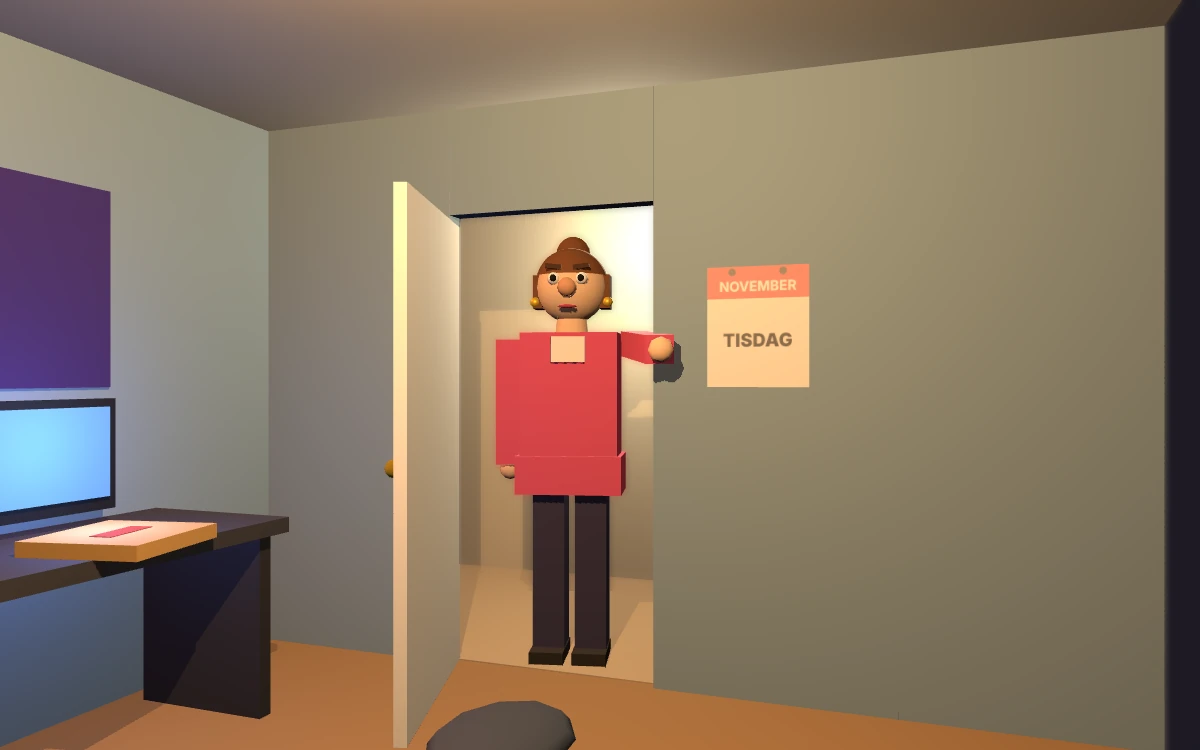
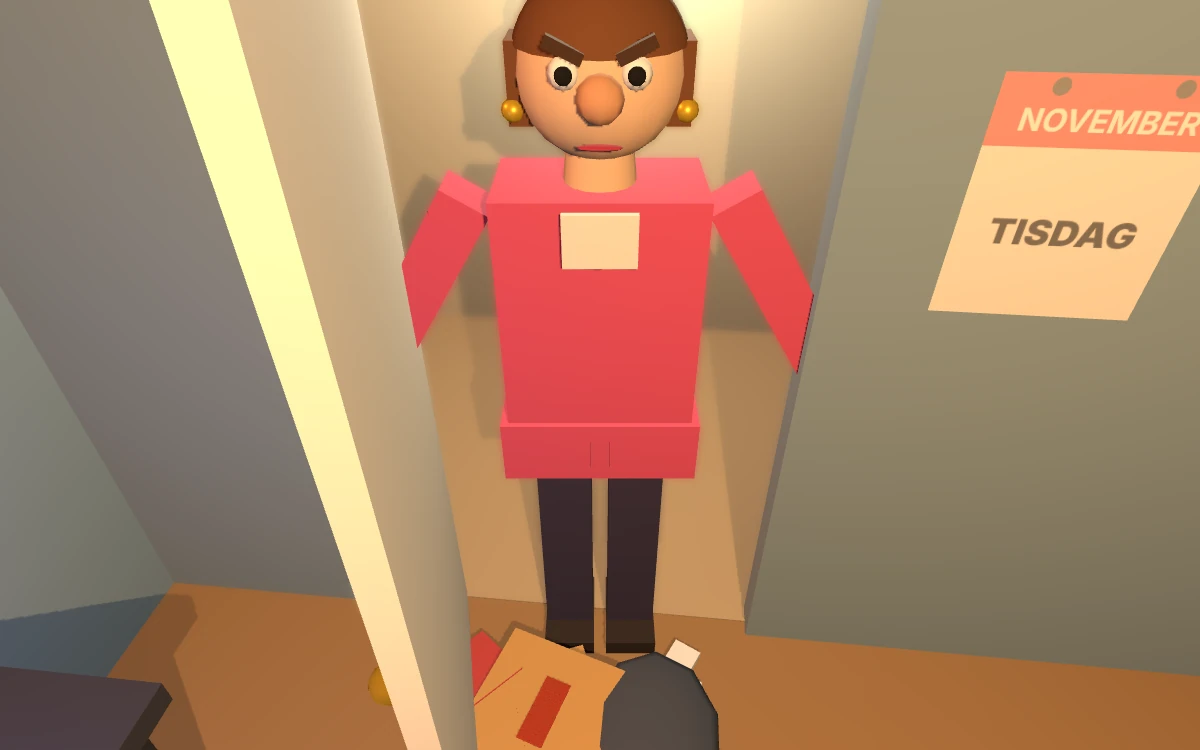
Soptippsvägen AI2: putsrunda på introbilderna
Bild 1 riktigt stökig (pizzahögar, kläder på stolen, chips och burkar på
skrivbordet, tallrik under sängen, fyra affischer), lägre kamera. Bild 2–4
närbild på mamma med ansiktet ca 3 gånger större: neutral → ögonbryn ner
och händerna i sidan → rött ansikte och pekfinger, och stöket framför
dörren ökar. Bild 5 kalendern skarp i förgrunden och mamma hel och suddig
i dörren. Bild 7 hela huvudet, armen pekar mot dörren. Bild 9 en riktig
ryggsäck med remmar, lock och spänne, framficka, strumpa och sladd. Bild 10
från vägen med skjulet och tippen. Bild 11 tätt stilleben med slang. Bild
12 före grått utan tak med skräp, efter i skymning med plåttak, fönster,
lampa, matta, krukor och gamingbordet.

Claude-Session: https://claude.ai/code/session_014156cp9JxbGsW1A8ZsF5gD

diff --git a/spel/printa-hem/spel.js b/spel/printa-hem/spel.js
@@ -1000,6 +1000,7 @@ const skjulHinder = [];
   for (const [x, z] of [[-B / 2, -D / 2], [B / 2, -D / 2], [-B / 2, D / 2], [B / 2, D / 2]]) { const st = box(0.12, H + 0.1, 0.12, tra[3]); st.position.set(x, (H + 0.1) / 2, z); talt.add(st); }
   // sjunket tak av plankor med ett hål, plus en rostig plåtlapp
   const tak = new THREE.Group(); tak.position.set(0, H + 0.05, 0); tak.rotation.x = -0.1; tak.rotation.z = 0.04; talt.add(tak);
+  talt.userData.plankTak = tak;   // punkt AI2: introbilden 'före' visar skjulet utan tak
   for (let z = -D / 2 - 0.25; z < D / 2 + 0.25; z += PL) {
     if (z > -0.4 && z < 0.0) continue;   // hålet i taket
     const t = box(B + 0.4, 0.05, PL - 0.02, tra[Math.floor(r() * tra.length)]); t.position.set(0, (r() - 0.5) * 0.04, z); t.rotation.z = (r() - 0.5) * 0.05; tak.add(t);
@@ -9547,7 +9548,7 @@ function fragaFlyttaOm(tvinga = false) {
 }
 // ---------- Punkt AI: introbilderna – stillbilder renderade med spelets egen Three.js ----------
 // Rummet byggs som en egen liten scen (kvällsljus inne). Gården, linje 1 och skjulet tas ur spelvärlden (dagsljus).
-// Testkrok: __printahem.introBild(n, bredd, höjd) → data-url. Verktyget test/ai.mjs sparar dem som intro/NN.webp.
+// Testkrok: __printahem.introBild(n, bredd, höjd) → data-url. Verktyget verktyg/ai.mjs sparar dem som intro/NN.webp.
 function introFigur(vem) {
   const g = new THREE.Group(), hud = mat(vem === 'mamma' ? 0xf2c9a5 : 0xf0c6a2);
   const kropp = mat(vem === 'mamma' ? 0xe0567a : 0x2d6cdf), byx = mat(vem === 'mamma' ? 0x3a3550 : 0x2b3442), sko = mat(0x2a2320);
@@ -9565,10 +9566,13 @@ function introFigur(vem) {
     for (const x of [-0.175, 0.175]) huvud.add(at(new THREE.Mesh(new THREE.SphereGeometry(0.025, 8, 6), mat(0xffd23b, { metalness: 0.5, roughness: 0.3 })), x, -0.07, 0.02));   // örhängen
     for (const x of [-0.16, 0.16]) huvud.add(at(box(0.05, 0.16, 0.12, har), x, -0.02, -0.03));
   }
-  if (vem !== 'mamma') { const luva = new THREE.Mesh(new THREE.SphereGeometry(0.215, 16, 12, Math.PI - 0.5, Math.PI + 1.0, 0, Math.PI * 0.72), mat(0x2d6cdf, { side: THREE.DoubleSide })); luva.position.set(0, -0.01, -0.03); huvud.add(luva); }   // luvan runt ansiktet, som på porträttet
+  if (vem !== 'mamma') { const luva = new THREE.Mesh(new THREE.SphereGeometry(0.215, 16, 12, Math.PI - 0.5, Math.PI + 1.0, 0, Math.PI * 0.72), mat(0x2d6cdf, { side: THREE.DoubleSide })); luva.position.set(0, -0.01, -0.03); huvud.add(luva); }
+  const fore = huvud.children.length;
   ansikte(huvud, 0, { bryn: vem === 'mamma' ? 0.12 : -0.05, brynFarg: 0x4a2e1a, nasa: 0xd9a07a, munFarg: vem === 'mamma' ? 0xb83a52 : 0x5a2a20 });
+  const delar = huvud.children.slice(fore), bryn = delar.filter((o) => o.geometry?.parameters?.width === 0.075), mun = delar[delar.length - 1];
   const arm = (x) => { const a = new THREE.Group(); a.position.set(x, 1.5, 0); a.add(at(box(0.12, 0.6, 0.12, kropp), 0, -0.28, 0)); a.add(at(new THREE.Mesh(new THREE.SphereGeometry(0.055, 8, 6), hud), 0, -0.6, 0)); g.add(a); return a; };
-  g.userData = { vanster: arm(-0.3), hoger: arm(0.3), ben, huvud };
+  const hoger = arm(0.3), finger = at(box(0.03, 0.11, 0.03, hud), 0, -0.7, 0); hoger.add(finger);
+  g.userData = { vanster: arm(-0.3), hoger, finger, ben, huvud, bryn, mun, hud, hudFarg: hud.color.getHex() };
   g.traverse((o) => { if (o.isMesh) { o.castShadow = true; o.receiveShadow = true; } });
   return g;
 }
@@ -9580,10 +9584,19 @@ function kalenderTex(dag) {
   g.fillStyle = '#333'; g.font = '900 46px system-ui'; g.fillText(dag, 128, 200);
   return new THREE.CanvasTexture(c);
 }
+// en affisch: färgade fält och lite text, ritad på en canvas
+function affischTex(farg, rubrik, figur) {
+  const c = document.createElement('canvas'); c.width = 192; c.height = 256; const g = c.getContext('2d');
+  g.fillStyle = farg; g.fillRect(0, 0, 192, 256); g.fillStyle = 'rgba(255,255,255,.18)'; for (let y = 0; y < 256; y += 8) g.fillRect(0, y, 192, 2);
+  g.font = '110px system-ui'; g.textAlign = 'center'; g.fillText(figur, 96, 150);
+  g.fillStyle = '#fff'; g.font = '900 30px system-ui'; g.fillText(rubrik, 96, 226);
+  return new THREE.CanvasTexture(c);
+}
 let introRum = null;
 function byggIntroRum() {
   const sc = new THREE.Scene(); sc.background = new THREE.Color(0x1d1a24);
   const R = { vagg: mat(0x8fa7b8), golv: mat(0x9c7a52), tak: mat(0xe8e2d6) };
+  const r = (() => { let x = 7; return () => { x = (x * 16807) % 2147483647; return x / 2147483647; }; })();   // samma stök varje gång
   sc.add(at(box(5, 0.05, 4, R.golv), 0, -0.025, 0));
   sc.add(at(box(5, 0.05, 4, R.tak), 0, 2.62, 0));
   sc.add(at(box(5, 2.6, 0.1, R.vagg), 0, 1.3, -2)); sc.add(at(box(0.1, 2.6, 4, R.vagg), -2.5, 1.3, 0));
@@ -9596,27 +9609,44 @@ function byggIntroRum() {
   const dorr = new THREE.Group(); dorr.position.set(2.5, 0, -0.9); dorr.add(at(box(0.05, 2.05, 1.0, mat(0xf2ede2)), 0, 1.025, 0.5)); dorr.add(at(new THREE.Mesh(new THREE.SphereGeometry(0.035, 8, 6), mat(0xc9a227, { metalness: 0.7 })), -0.05, 1.0, 0.9)); sc.add(dorr);
   // fönster i bakväggen: kvällshimmel
   sc.add(at(box(1.2, 0.9, 0.02, mat(0xff9a55, { emissive: 0xff7a35, emissiveIntensity: 0.9 })), -0.6, 1.55, -1.94)); sc.add(at(box(1.3, 0.06, 0.1, mat(0xf2ede2)), -0.6, 1.08, -1.9)); sc.add(at(box(0.04, 0.9, 0.04, mat(0xf2ede2)), -0.6, 1.55, -1.92));
-  // affisch
-  sc.add(at(box(0.6, 0.8, 0.02, mat(0x3d2a6b, { emissive: 0x24104a, emissiveIntensity: 0.4 })), 1.2, 1.7, -1.94));
+  // affischer på väggarna, så att de inte är tomma
+  const affisch = (x, y, z, rot, farg, rub, fig, w = 0.6, h = 0.8) => { const m = new THREE.Mesh(new THREE.PlaneGeometry(w, h), new THREE.MeshStandardMaterial({ map: affischTex(farg, rub, fig), roughness: 0.8 })); m.position.set(x, y, z); m.rotation.y = rot; sc.add(m); };
+  affisch(1.2, 1.7, -1.94, 0, '#3d2a6b', 'LEVEL 99', '👾'); affisch(-2.44, 1.65, 0.2, Math.PI / 2, '#b23a2a', 'ROCK', '🎸', 0.55, 0.75); affisch(-2.44, 1.5, 1.2, Math.PI / 2, '#1b6f8f', 'GOAL', '⚽', 0.45, 0.6); affisch(2.44, 1.6, 1.4, -Math.PI / 2, '#2f7a4a', 'GAME ON', '🎮', 0.5, 0.65);
   // sängen längs vänstra väggen med täcke
   sc.add(at(box(1.0, 0.35, 2.0, mat(0x6b4a30)), -1.95, 0.2, -0.9)); sc.add(at(box(0.95, 0.15, 1.95, mat(0x4a6fb0)), -1.95, 0.45, -0.9)); sc.add(at(box(0.7, 0.12, 0.4, mat(0xe8eef5)), -1.95, 0.57, -1.65));
   const tacke = new THREE.Mesh(new THREE.SphereGeometry(0.5, 12, 8), mat(0x6a87c9)); tacke.scale.set(1, 0.25, 1.4); tacke.position.set(-1.85, 0.55, -0.6); sc.add(tacke);
-  // skrivbordet med skärm, burkar och en gammal pizza
+  // skrivbordet med skärm
   sc.add(at(box(1.4, 0.06, 0.7, mat(0x3a3a44)), 1.0, 0.75, -1.55)); for (const x of [0.38, 1.62]) sc.add(at(box(0.06, 0.75, 0.6, mat(0x2b2b33)), x, 0.375, -1.55));
   sc.add(at(box(0.7, 0.42, 0.04, mat(0x111111)), 1.0, 1.05, -1.75)); sc.add(at(box(0.62, 0.34, 0.02, mat(0x5e8cff, { emissive: 0x3d6bff, emissiveIntensity: 1.2 })), 1.0, 1.06, -1.72));
   const skarm = new THREE.PointLight(0x7aa0ff, 1.2, 2.5); skarm.position.set(1.0, 1.1, -1.4); sc.add(skarm);
-  const burk = (x, z, f, liggande = false) => { const b = cyl(0.035, 0.035, 0.12, mat(f, { metalness: 0.6, roughness: 0.35 }), 12); if (liggande) { b.rotation.z = Math.PI / 2; b.position.set(x, 0.04, z); } else b.position.set(x, 0.06, z); sc.add(b); return b; };
-  const pizza = (x, y, z, r) => { const p = new THREE.Group(); p.add(at(box(0.42, 0.05, 0.42, mat(0xc89b5c)), 0, 0.025, 0)); p.add(at(box(0.2, 0.002, 0.08, mat(0xb03a20)), 0, 0.051, 0)); p.position.set(x, y, z); p.rotation.y = r; sc.add(p); return p; };
-  const strumpa = (x, z, r) => { const s = new THREE.Group(); s.add(at(box(0.09, 0.03, 0.26, mat(0xe8eef5)), 0, 0.015, 0)); s.add(at(box(0.09, 0.03, 0.12, mat(0xe8eef5)), 0.05, 0.015, 0.16)); s.add(at(box(0.095, 0.032, 0.04, mat(0xe05a5a)), 0, 0.017, -0.1)); s.position.set(x, 0, z); s.rotation.y = r; sc.add(s); };
-  const klader = (x, z, f) => { const k = new THREE.Mesh(new THREE.SphereGeometry(0.28, 10, 6), mat(f)); k.scale.set(1.2, 0.3, 0.9); k.position.set(x, 0.06, z); sc.add(k); };
-  const rora = new THREE.Group(); sc.add(rora);   // stöket, så att det kan bli mer dag för dag
-  const fore = sc.children.length;
-  pizza(-1.0, 0, 0.6, 0.3); pizza(-0.95, 0.05, 0.62, -0.2); pizza(-1.02, 0.1, 0.58, 0.5); pizza(0.4, 0, 0.9, 1.1); pizza(1.0, 0.78, -1.3, 0.2);
-  strumpa(-0.2, 0.3, 0.6); strumpa(0.8, 0.2, -1.2); strumpa(1.5, 0.9, 2); strumpa(-1.4, 1.2, 0.4);
-  klader(0.2, -0.5, 0x3a8a5a); klader(-0.6, 1.3, 0x8a3a5a); klader(1.6, -0.2, 0x444b5a);
-  burk(-0.3, 0.9, 0xe05a5a, true); burk(0.6, 0.5, 0x3de3ff); burk(0.65, 0.6, 0xf1c40f, true); burk(1.2, -1.5, 0x7dffb0); burk(0.85, -1.45, 0xe05a5a);
+  // stolen med kläder över
+  const stol = new THREE.Group(); stol.add(at(box(0.45, 0.06, 0.45, mat(0x2b2b33)), 0, 0.47, 0)); stol.add(at(box(0.45, 0.55, 0.06, mat(0x2b2b33)), 0, 0.75, -0.2)); for (const [x, z] of [[-0.18, -0.18], [0.18, -0.18], [-0.18, 0.18], [0.18, 0.18]]) stol.add(at(box(0.04, 0.47, 0.04, mat(0x555555)), x, 0.235, z));
+  stol.add(at(box(0.5, 0.35, 0.04, mat(0x3a8a5a)), 0.02, 0.85, -0.17)); stol.add(at(box(0.36, 0.05, 0.42, mat(0xc94a4a)), -0.04, 0.52, 0.02)); stol.add(at(box(0.08, 0.4, 0.06, mat(0x3a8a5a)), 0.22, 0.66, -0.18));
+  stol.position.set(1.0, 0, -0.9); stol.rotation.y = 0.35; sc.add(stol);
+  const stok = [];   // stöket: visas mer och mer dag för dag
+  const s = (o) => { sc.add(o); stok.push(o); return o; };
+  const burk = (x, z, f, liggande = false, y = 0) => { const b = cyl(0.035, 0.035, 0.12, mat(f, { metalness: 0.6, roughness: 0.35 }), 12); if (liggande) { b.rotation.z = Math.PI / 2; b.rotation.y = r() * 3; b.position.set(x, y + 0.035, z); } else b.position.set(x, y + 0.06, z); return s(b); };
+  const pizza = (x, y, z, rot) => { const p = new THREE.Group(); p.add(at(box(0.42, 0.05, 0.42, mat(0xc89b5c)), 0, 0.025, 0)); p.add(at(box(0.2, 0.002, 0.08, mat(0xb03a20)), 0, 0.051, 0)); p.position.set(x, y, z); p.rotation.y = rot; return s(p); };
+  const strumpa = (x, z, rot) => { const st = new THREE.Group(); st.add(at(box(0.09, 0.03, 0.26, mat(0xe8eef5)), 0, 0.015, 0)); st.add(at(box(0.09, 0.03, 0.12, mat(0xe8eef5)), 0.05, 0.015, 0.16)); st.add(at(box(0.095, 0.032, 0.04, mat(0xe05a5a)), 0, 0.017, -0.1)); st.position.set(x, 0, z); st.rotation.y = rot; return s(st); };
+  const klader = (x, z, f, stor = 1) => { const k = new THREE.Mesh(new THREE.SphereGeometry(0.28 * stor, 10, 6), mat(f)); k.scale.set(1.2, 0.3, 0.9); k.position.set(x, 0.06, z); return s(k); };
+  const chips = (x, y, z, rot, f = 0xf1c40f) => { const c = new THREE.Group(); const p = box(0.18, 0.24, 0.06, mat(f, { metalness: 0.3, roughness: 0.4 })); p.rotation.x = -1.3; p.position.y = 0.04; c.add(p); c.position.set(x, y, z); c.rotation.y = rot; return s(c); };
+  // i ordning: det första syns redan måndag, resten kommer till dag för dag (och allt i bild 1)
+  const lista = [
+    () => pizza(-1.0, 0, 0.6, 0.3), () => strumpa(-0.2, 0.3, 0.6), () => klader(0.2, -0.5, 0x3a8a5a), () => burk(0.6, 0.5, 0x3de3ff), () => pizza(1.0, 0.78, -1.3, 0.2),
+    () => burk(1.2, -1.5, 0x7dffb0, false, 0.78), () => chips(0.62, 0.78, -1.35, 0.5), () => strumpa(1.75, -0.3, -1.2), () => pizza(1.7, 0, 0.3, 0.6), () => klader(1.6, -0.2, 0x444b5a),
+    () => pizza(-0.95, 0.05, 0.62, -0.2), () => burk(-0.3, 0.9, 0xe05a5a, true), () => strumpa(1.5, 0.9, 2), () => pizza(1.72, 0.05, 0.28, -0.3), () => chips(1.9, 0, 0.0, 1.2, 0xe05a5a),
+    () => burk(1.4, -1.48, 0xe05a5a, false, 0.78), () => pizza(-1.02, 0.1, 0.58, 0.5), () => klader(-0.6, 1.3, 0x8a3a5a), () => burk(0.65, 0.6, 0xf1c40f, true), () => strumpa(-1.4, 1.2, 0.4),
+    () => pizza(1.68, 0.1, 0.32, 0.9), () => burk(1.85, 0.6, 0x3de3ff, true), () => strumpa(2.0, -0.1, 0.3), () => chips(-0.2, 0, 1.0, 2.2, 0x3a8be0), () => klader(1.95, 0.9, 0xc94a4a, 0.7),
+    () => pizza(0.4, 0, 0.9, 1.1), () => pizza(0.42, 0.05, 0.88, 0.8), () => burk(0.1, 1.4, 0x7dffb0, true), () => strumpa(0.6, -0.2, 2.6), () => chips(1.3, 0, 0.5, 0.2),
+    () => burk(1.6, 0.4, 0xf1c40f, true), () => pizza(-0.3, 0, -0.9, 0.4), () => strumpa(-0.6, 0.4, -0.8), () => burk(0.9, -1.4, 0x3de3ff, false, 0.78), () => chips(1.2, 0.78, -1.75, 0.9, 0x7dffb0),
+  ];
+  // stöket framför dörren (syns i bild 2–4): ett par saker på måndag, mer för varje dag
+  const vidDorr = [() => pizza(2.05, 0, -0.55, 0.4), () => strumpa(2.15, -0.15, 1.1), () => burk(1.95, -0.85, 0xe05a5a, true), () => klader(2.05, -0.2, 0x444b5a, 0.8), () => pizza(2.07, 0.05, -0.52, -0.3), () => chips(2.2, 0, -0.75, 2.4, 0xe05a5a), () => strumpa(1.9, -0.45, 2.2), () => pizza(2.03, 0.1, -0.58, 0.9), () => burk(2.25, -0.3, 0x3de3ff, true), () => klader(1.85, -0.9, 0x8a3a5a, 0.6)];
+  [1, 5, 9, 13, 17, 21, 25, 29, 32, 34].forEach((pos, i) => lista.splice(pos, 0, vidDorr[i]));
+  for (const f of lista) f();
+  // tallrik under sängen och en kontroll på golvet (alltid där)
+  sc.add(at(cyl(0.13, 0.11, 0.02, mat(0xf2f2f2), 18), -1.55, 0.01, -0.3)); sc.add(at(box(0.1, 0.02, 0.06, mat(0x9a6a3a)), -1.55, 0.03, -0.3));
   { const kontroll = new THREE.Group(); kontroll.add(at(box(0.18, 0.04, 0.1, mat(0x222222)), 0, 0.02, 0)); for (const x of [-0.1, 0.1]) kontroll.add(at(cyl(0.035, 0.035, 0.04, mat(0x222222), 8), x, 0.02, 0.04)); kontroll.position.set(0.1, 0, 0.6); kontroll.rotation.y = 0.5; sc.add(kontroll); }
-  const stok = sc.children.slice(fore);
   // ljuset: varm taklampa och kvällsljus genom fönstret
   sc.add(new THREE.HemisphereLight(0xffe2c0, 0x3a2a30, 0.9));
   const lampa = new THREE.PointLight(0xffc98a, 14, 9, 1.6); lampa.position.set(0.2, 2.45, 0.2); lampa.castShadow = true; lampa.shadow.mapSize.set(1024, 1024); sc.add(lampa);
@@ -9625,121 +9655,171 @@ function byggIntroRum() {
   // kalendern bredvid dörren
   const kal = new THREE.Mesh(new THREE.PlaneGeometry(0.42, 0.5), new THREE.MeshStandardMaterial({ map: kalenderTex('MÅNDAG'), roughness: 0.9 })); kal.position.set(2.44, 1.55, 0.55); kal.rotation.y = -Math.PI / 2; sc.add(kal);
   const mamma = introFigur('mamma'), du = introFigur('du'); sc.add(mamma, du);
-  // ryggsäcken
-  const sack = new THREE.Group(); { const bla = mat(0x2d6cdf), mork = mat(0x2558b8); const k = new THREE.Mesh(new THREE.SphereGeometry(0.25, 14, 10), bla); k.scale.set(1, 1.25, 0.6); k.position.y = 0.3; sack.add(k); sack.add(at(box(0.3, 0.2, 0.08, mork), 0, 0.2, 0.14)); sack.add(at(box(0.36, 0.04, 0.2, mork), 0, 0.58, 0)); for (const x of [-0.12, 0.12]) sack.add(at(box(0.04, 0.5, 0.03, mork), x, 0.32, -0.16)); sack.traverse((o) => { if (o.isMesh) o.castShadow = true; }); }
+  // ryggsäcken: kropp, lock med spänne, framficka, axelremmar och bärhandtag – och lite som sticker ut
+  const sack = new THREE.Group(); {
+    const bla = mat(0x2d6cdf), mork = mat(0x1f4fa8), spanne = mat(0xc9ccd2, { metalness: 0.7, roughness: 0.3 });
+    sack.add(at(box(0.4, 0.5, 0.22, bla), 0, 0.27, 0));
+    const kant = (y) => sack.add(at(box(0.42, 0.04, 0.24, mork), 0, y, 0)); kant(0.03);
+    const lock = box(0.42, 0.06, 0.26, mork); lock.position.set(0, 0.54, 0.01); lock.rotation.x = -0.08; sack.add(lock);
+    sack.add(at(box(0.16, 0.2, 0.02, mork), 0, 0.44, 0.125));   // lockets flik
+    sack.add(at(box(0.07, 0.05, 0.02, spanne), 0, 0.36, 0.14));   // spännet
+    sack.add(at(box(0.3, 0.2, 0.08, mork), 0, 0.17, 0.14)); sack.add(at(box(0.28, 0.015, 0.01, spanne), 0, 0.25, 0.185));   // framficka med blixtlås
+    for (const x of [-0.12, 0.12]) { const rem = box(0.05, 0.52, 0.03, mork); rem.position.set(x, 0.3, -0.125); rem.rotation.x = 0.08; sack.add(rem); sack.add(at(box(0.05, 0.03, 0.06, spanne), x, 0.06, -0.14)); }
+    const handtag = new THREE.Mesh(new THREE.TorusGeometry(0.05, 0.012, 6, 12, Math.PI), mork); handtag.position.set(0, 0.58, -0.07); sack.add(handtag);
+    const strumpa2 = box(0.07, 0.16, 0.03, mat(0xe8eef5)); strumpa2.position.set(0.12, 0.58, 0.08); strumpa2.rotation.z = -0.5; sack.add(strumpa2); sack.add(at(box(0.072, 0.03, 0.032, mat(0xe05a5a)), 0.15, 0.62, 0.08));
+    const sladd = new THREE.Mesh(new THREE.TubeGeometry(new THREE.CatmullRomCurve3([new THREE.Vector3(-0.12, 0.55, 0.06), new THREE.Vector3(-0.2, 0.68, 0.12), new THREE.Vector3(-0.3, 0.6, 0.2), new THREE.Vector3(-0.38, 0.08, 0.3), new THREE.Vector3(-0.5, 0.01, 0.45)]), 30, 0.008, 6), mat(0x222222)); sack.add(sladd);
+    sack.traverse((o) => { if (o.isMesh) o.castShadow = true; });
+  }
   sc.add(sack);
   const skriv = gammal.clone(true); skriv.position.set(0, 0, 0); sc.add(skriv);
-  const damm = new THREE.Group(); for (let i = 0; i < 14; i++) { const d = new THREE.Mesh(new THREE.SphereGeometry(0.05 + Math.random() * 0.06, 6, 4), new THREE.MeshStandardMaterial({ color: 0xd9cfb8, transparent: true, opacity: 0.55 })); d.position.set(2.3 + Math.random() * 0.5, Math.random() * 1.8, -0.9 + Math.random() * 1.1); damm.add(d); } sc.add(damm);
+  const damm = new THREE.Group(); for (let i = 0; i < 14; i++) { const d = new THREE.Mesh(new THREE.SphereGeometry(0.05 + r() * 0.06, 6, 4), new THREE.MeshStandardMaterial({ color: 0xd9cfb8, transparent: true, opacity: 0.55 })); d.position.set(2.3 + r() * 0.5, r() * 1.8, -0.9 + r() * 1.1); damm.add(d); } sc.add(damm);
   return { sc, dorr, kal, mamma, du, sack, skriv, damm, stok, lampa };
 }
 function introKamera(pos, mal, fov = 50, aspect = 1.6) { const k = new THREE.PerspectiveCamera(fov, aspect, 0.1, 200); k.position.set(...pos); k.lookAt(...mal); return k; }
-function poseFigur(f, { x = 0, z = 0, rot = 0, peka = null, pekaSida = false, armarUpp = false, huvudLut = 0, synlig = true } = {}) {
-  f.visible = synlig; f.position.set(x, 0, z); f.rotation.y = rot;
-  const u = f.userData; u.hoger.rotation.set(0, 0, 0); u.vanster.rotation.set(0, 0, 0); u.huvud.rotation.set(0, 0, huvudLut);
-  if (peka) { u.hoger.rotation.x = -Math.PI / 2 * 0.95; u.hoger.rotation.z = peka; }
-  if (pekaSida) { u.hoger.rotation.z = Math.PI / 2; u.hoger.rotation.y = -0.2; }
-  if (armarUpp) { u.hoger.rotation.z = 2.4; u.vanster.rotation.z = -2.4; }
+// humor: 'neutral', 'arg' (ögonbryn ner), 'rasande' (rött ansikte). pekaMot: en punkt i världen som högra armen pekar mot.
+function poseFigur(f, { x = 0, z = 0, rot = 0, motKamera = null, pekaMot = null, armarUpp = false, handerISidan = false, humor = 'neutral', synlig = true } = {}) {
+  f.visible = synlig; f.position.set(x, 0, z); f.rotation.set(0, motKamera ? Math.atan2(motKamera[0] - x, motKamera[2] - z) : rot, 0);
+  const u = f.userData; u.hoger.quaternion.identity(); u.vanster.quaternion.identity(); u.huvud.rotation.set(0, 0, 0); u.finger.visible = false;
+  u.hud.color.setHex(humor === 'rasande' ? 0xec8a78 : u.hudFarg);
+  u.bryn.forEach((b) => { const v = b.position.x < 0; b.rotation.z = humor === 'neutral' ? (v ? 0.12 : -0.12) : (v ? -0.45 : 0.45); b.position.y = humor === 'neutral' ? 0.085 : 0.07; });
+  u.mun.scale.set(humor === 'rasande' ? 1.1 : 1.3, humor === 'rasande' ? 0.75 : humor === 'arg' ? 0.15 : 0.25, 0.4);
+  if (handerISidan) { u.hoger.rotation.set(0, 0, 0.55); u.vanster.rotation.set(0, 0, -0.55); }
+  if (armarUpp) { u.hoger.rotation.set(0, 0, 2.4); u.vanster.rotation.set(0, 0, -2.4); }
+  if (pekaMot) {
+    f.updateMatrixWorld(true);
+    const axel = u.hoger.getWorldPosition(new THREE.Vector3()), dir = new THREE.Vector3(...pekaMot).sub(axel).normalize();
+    const lokal = dir.applyQuaternion(f.quaternion.clone().invert());
+    u.hoger.quaternion.setFromUnitVectors(new THREE.Vector3(0, -1, 0), lokal); u.finger.visible = true;
+  }
 }
-// rendera en scen i bredd × höjd och gör bakgrunden lite suddig (skärpedjup ungefär)
-function introRendera(sc, kam, W, H, fokus) {
+// rendera en scen i bredd × höjd och gör bakgrunden lite suddig (skärpedjup ungefär). nara = suddigt även nära kameran.
+function introRendera(sc, kam, W, H, fokus, { nara = false, gra = 0 } = {}) {
   const r = renderer, gammalStorlek = r.getSize(new THREE.Vector2()), pr = r.getPixelRatio();
   r.setPixelRatio(1); r.setSize(W, H, false); kam.aspect = W / H; kam.updateProjectionMatrix();
   r.render(sc, kam);
   const A = document.createElement('canvas'); A.width = W; A.height = H; const a = A.getContext('2d'); a.drawImage(r.domElement, 0, 0, W, H);
-  // djupbild: vitt nära, svart långt bort
   const bg = sc.background, dimma = sc.fog; sc.background = new THREE.Color(0); sc.fog = null; sc.overrideMaterial = new THREE.MeshDepthMaterial();
   r.render(sc, kam);
   sc.overrideMaterial = null; sc.background = bg; sc.fog = dimma;
   const D = document.createElement('canvas'); D.width = W; D.height = H; const d = D.getContext('2d'); d.drawImage(r.domElement, 0, 0, W, H);
   r.setPixelRatio(pr); r.setSize(gammalStorlek.x, gammalStorlek.y, false);
+  const ia = a.getImageData(0, 0, W, H);
   if (fokus) {
     const Bc = document.createElement('canvas'); Bc.width = W; Bc.height = H; const b = Bc.getContext('2d'); b.filter = 'blur(3.5px)'; b.drawImage(A, 0, 0);
     const n = kam.near, f = kam.far, zd = (dist) => 1 - (((f + n) / (f - n) - (2 * f * n) / ((f - n) * dist)) + 1) / 2;   // samma djupvärde som MeshDepthMaterial ger på avståndet
-    const skarp = zd(fokus * 1.35), suddig = zd(fokus * 2.6);
-    const ia = a.getImageData(0, 0, W, H), ib = b.getImageData(0, 0, W, H), id = d.getImageData(0, 0, W, H);
+    const skarp = zd(fokus * 1.35), suddig = zd(fokus * 2.6), skarpN = zd(fokus * 0.7), suddigN = zd(fokus * 0.45);
+    const ib = b.getImageData(0, 0, W, H), id = d.getImageData(0, 0, W, H);
     for (let i = 0; i < ia.data.length; i += 4) {
-      const z = id.data[i] / 255, t = Math.max(0, Math.min(1, (skarp - z) / Math.max(1e-6, skarp - suddig)));
+      const z = id.data[i] / 255; let t = Math.max(0, Math.min(1, (skarp - z) / Math.max(1e-6, skarp - suddig)));
+      if (nara) t = Math.max(t, Math.max(0, Math.min(1, (z - skarpN) / Math.max(1e-6, suddigN - skarpN))));
       if (t > 0) for (let c = 0; c < 3; c++) ia.data[i + c] = ia.data[i + c] * (1 - t) + ib.data[i + c] * t;
     }
-    a.putImageData(ia, 0, 0);
   }
+  if (gra) for (let i = 0; i < ia.data.length; i += 4) { const l = ia.data[i] * 0.3 + ia.data[i + 1] * 0.59 + ia.data[i + 2] * 0.11; for (let c = 0; c < 3; c++) ia.data[i + c] = ia.data[i + c] * (1 - gra) + (l * 0.92 + 8) * gra; }
+  a.putImageData(ia, 0, 0);
   return A;
 }
 function introBild(n, W = 1200, H = 750) {
   if (!introRum) introRum = byggIntroRum();
   const R = introRum, sc = R.sc;
-  const stok = (mer) => R.stok.forEach((o, i) => { o.visible = i < R.stok.length * mer; });
-  R.dorr.rotation.y = 0; R.damm.visible = false; R.lampa.intensity = 14; R.sack.visible = false; R.skriv.visible = false; poseFigur(R.du, { synlig: false }); stok(1);
+  const stok = (andel) => R.stok.forEach((o, i) => { o.visible = i < R.stok.length * andel; });
+  R.dorr.rotation.y = 0; R.damm.visible = false; R.sack.visible = false; R.skriv.visible = false; R.lampa.intensity = 14; poseFigur(R.du, { synlig: false }); stok(1);
   const dag = { 2: 'MÅNDAG', 3: 'TISDAG', 4: 'ONSDAG', 5: 'TORSDAG', 6: 'FREDAG', 7: 'FREDAG' }[n];
   if (dag) { R.kal.material.map?.dispose(); R.kal.material.map = kalenderTex(dag); R.kal.material.needsUpdate = true; }
+  const mammaDorr = [2.5, -0.4], kamDorr = [1.05, 2.1, -0.25];
   let A;
-  if (n === 1) { poseFigur(R.mamma, { synlig: false }); A = introRendera(sc, introKamera([1.9, 1.75, 1.9], [-0.6, 0.55, -0.5], 58, W / H), W, H, 3.2); }
+  if (n === 1) { poseFigur(R.mamma, { synlig: false }); A = introRendera(sc, introKamera([1.95, 1.15, 1.85], [-0.4, 0.25, -0.4], 60, W / H), W, H, 3.0); }
   else if (n >= 2 && n <= 4) {
-    R.dorr.rotation.y = -1.25; stok(0.55 + (n - 2) * 0.22);
-    poseFigur(R.mamma, { x: 2.75, z: -0.4, rot: -Math.PI / 2 + 0.25, peka: n === 3 ? 0.25 : null, armarUpp: n === 4, huvudLut: n === 2 ? 0.08 : 0 });
-    A = introRendera(sc, introKamera([-1.2, 1.35, 1.2], [2.6, 1.35, -0.2], 46, W / H), W, H, 3.8);
+    // mamma i dörren från midjan och uppåt, stöket på golvet framför dörren längst ner
+    R.dorr.rotation.y = -1.25; stok([0.3, 0.6, 1][n - 2]);
+    poseFigur(R.mamma, { x: mammaDorr[0], z: mammaDorr[1], motKamera: kamDorr, humor: ['neutral', 'arg', 'rasande'][n - 2], handerISidan: n === 3, pekaMot: n === 4 ? kamDorr : null });
+    A = introRendera(sc, introKamera(kamDorr, [mammaDorr[0], 1.02, mammaDorr[1]], 57, W / H), W, H, 1.7);
   } else if (n === 5) {
-    R.dorr.rotation.y = -1.25; poseFigur(R.mamma, { x: 3.0, z: -0.4, rot: -Math.PI / 2, armarUpp: true });
-    A = introRendera(sc, introKamera([1.1, 1.5, 1.6], [2.44, 1.5, 0.2], 46, W / H), W, H, 1.6);
+    // kalendern skarp i förgrunden, mamma hel i dörren bakom – lite suddig
+    R.dorr.rotation.y = -1.25; poseFigur(R.mamma, { x: 3.05, z: -0.42, rot: -Math.PI / 2 - 0.4, armarUpp: true, humor: 'arg' });
+    A = introRendera(sc, introKamera([1.3, 1.5, 0.42], [2.8, 1.15, -0.4], 64, W / H), W, H, 0.65);
   } else if (n === 6) {
     R.dorr.rotation.y = -2.1; R.damm.visible = true;
-    poseFigur(R.mamma, { x: 2.35, z: -0.35, rot: -Math.PI / 2, armarUpp: true });
+    poseFigur(R.mamma, { x: 2.35, z: -0.35, rot: -Math.PI / 2, armarUpp: true, humor: 'rasande' });
     const k = introKamera([-0.6, 1.0, 1.5], [2.3, 1.45, -0.4], 52, W / H); k.rotateZ(-0.07);
     A = introRendera(sc, k, W, H, 3.2);
   } else if (n === 7) {
-    R.dorr.rotation.y = -1.6; poseFigur(R.mamma, { x: 1.0, z: 0.7, rot: -0.5, pekaSida: true }); R.lampa.intensity = 7;
-    A = introRendera(sc, introKamera([-0.9, 1.45, 2.3], [1.3, 1.3, -0.3], 52, W / H), W, H, 2.6);
+    // mamma hel med huvudet i bild, armen pekar mot dörren och ut
+    R.dorr.rotation.y = -1.6; R.lampa.intensity = 8;
+    poseFigur(R.mamma, { x: 0.9, z: 0.55, rot: -0.75, humor: 'arg', pekaMot: [2.6, 1.4, -0.4] });
+    A = introRendera(sc, introKamera([-1.35, 1.5, 2.0], [1.25, 1.25, -0.05], 52, W / H), W, H, 2.6);
   } else if (n === 8) {
     R.dorr.rotation.y = -1.25; poseFigur(R.mamma, { x: 3.1, z: -0.4, rot: -Math.PI / 2 });
-    poseFigur(R.du, { x: 0.3, z: 0.2, rot: -0.35, huvudLut: -0.08 });
+    poseFigur(R.du, { x: 0.3, z: 0.2, rot: -0.35 });
     A = introRendera(sc, introKamera([-0.9, 1.55, 2.0], [0.4, 1.35, 0.0], 44, W / H), W, H, 2.2);
   } else if (n === 9) {
     poseFigur(R.mamma, { synlig: false }); stok(0.25);
-    R.sack.visible = true; R.sack.position.set(-0.45, 0, 0.55); R.sack.rotation.y = 0.5;
+    R.sack.visible = true; R.sack.position.set(-0.4, 0, 0.6); R.sack.rotation.y = 0.35;
     R.skriv.visible = true; R.skriv.position.set(0.35, 0, 0.45); R.skriv.rotation.y = -0.4;
-    A = introRendera(sc, introKamera([-0.05, 0.85, 1.75], [0.0, 0.35, 0.45], 46, W / H), W, H, 1.4);
+    A = introRendera(sc, introKamera([-0.05, 0.85, 1.75], [0.0, 0.35, 0.5], 46, W / H), W, H, 1.4);
   } else A = introVarld(n, W, H);
   return A.toDataURL('image/png');
 }
 // bilderna ute: spelvärlden i dagsljus (den nya gården)
 function introVarld(n, W, H) {
-  const forr = { bg: scen.background.clone(), fog: scen.fog.color.clone(), sf: sol.color.clone(), si: sol.intensity };
+  const forr = { bg: scen.background.clone(), fog: scen.fog.color.clone(), sf: sol.color.clone(), si: sol.intensity, lampa: skjulLampa?.intensity };
   satLjus(DAG); const pil = malPil.visible; malPil.visible = false; planMesh.visible = false;
-  const tillfalliga = [];
+  const tillfalliga = [], tmp = (o) => { scen.add(o); tillfalliga.push(o); return o; };
+  const skrapRunt = (antal, x0, x1, z0, z1, undvik = () => false) => { for (let i = 0; i < antal; i++) { let x, z, f = 0; do { x = x0 + Math.random() * (x1 - x0); z = z0 + Math.random() * (z1 - z0); } while ((iPlanRuta(x, z, 0.4) || undvik(x, z)) && ++f < 20); const k = skapaSkrap(variantFor(['flaska', 'burk', 'pase', 'dunk', 'flaska'][i % 5])); k.position.set(x, 0, z); k.rotation.y = Math.random() * 6.3; tmp(k); } };
   let A;
   if (n === 10) {
-    // gården full av skräp: lite extra i förgrunden för bilden
-    for (let i = 0; i < 70; i++) { let x, z, f = 0; do { x = -16 + Math.random() * 22; z = 9 + Math.random() * 11; } while ((iPlanRuta(x, z, 0.5) || Math.hypot(x - SKJUL.x, z - SKJUL.z) < 3.5) && ++f < 20); const k = skapaSkrap(slumpVariant()); k.position.set(x, 0, z); k.rotation.y = Math.random() * 6.3; scen.add(k); tillfalliga.push(k); }
-    A = introRendera(scen, introKamera([4, 5.5, 27], [-6, 0, 9], 62, W / H), W, H, 16);
+    // från vägen: skjulet stort till höger, tippen bakom till vänster – "här ska jag bo"
+    const dn = scen.fog.near, df = scen.fog.far; scen.fog.near = 70; scen.fog.far = 180; tillfalliga.push({ parent: null, aterstall: () => { scen.fog.near = dn; scen.fog.far = df; } });
+    skrapRunt(80, -14, 16, 9, 20, (x, z) => Math.abs(x - SKJUL.x) < 2.6 && Math.abs(z - SKJUL.z) < 2.4);
+    A = introRendera(scen, introKamera([15, 1.8, 24.6], [-3, 0.2, 7.1], 50, W / H), W, H, 17);
   } else if (n === 11) {
-    // stilleben längs linje 1: flaskan → kvarnen → rullen → skrivaren
-    for (const [x, z, r] of [[-16.9, 13.6, 0.4], [-17.3, 13.3, 2.1], [-16.6, 13.1, 1.2]]) { const f = skapaSkrap(variantFor('flaska')); f.position.set(x, 0, z); f.rotation.y = r; scen.add(f); tillfalliga.push(f); }
+    // stilleben: flaskan, kvarnen, rullen och skrivaren tätt ihop – skrivaren flyttas en stund närmare, och en slang binder ihop
     const dolda = [cykel, batteri].filter((o) => o.visible); dolda.forEach((o) => { o.visible = false; });
-    A = introRendera(scen, introKamera([-14.3, 1.25, 16.6], [-14.0, 0.55, 11.5], 58, W / H), W, H, 5.5);
-    dolda.forEach((o) => { o.visible = true; });
+    const flytt = [[gammal, gammal.position.clone()], [ladGrupp, ladGrupp.position.clone()]];
+    const sx = -14.1, sz = 11.55; gammal.position.set(sx, 0.7, sz); ladGrupp.position.set(sx, 0, sz);
+    const slangar = scen.children.filter((o) => o.geometry?.type === 'TubeGeometry' && o.material?.emissive?.getHex() === new THREE.Color(FIL1).getHex()); slangar.forEach((o) => { o.visible = false; });
+    const a0 = rulle.getWorldPosition(new THREE.Vector3()), b0 = new THREE.Vector3(sx - 0.2, 0.95, sz);
+    tmp(new THREE.Mesh(new THREE.TubeGeometry(new THREE.CatmullRomCurve3([a0.clone().setY(0.25), a0.clone().lerp(b0, 0.3).setY(0.05), a0.clone().lerp(b0, 0.75).setY(0.05), b0.clone().setY(0.4), b0]), 40, 0.02, 6), mat(FIL1, { emissive: FIL1, emissiveIntensity: 0.35 })));
+    for (const [x, z, r] of [[-17.35, 12.7, 0.4], [-17.6, 12.4, 2.1], [-17.15, 12.35, 1.2]]) { const f = skapaSkrap(variantFor('flaska')); f.position.set(x, 0, z); f.rotation.y = r; tmp(f); }
+    A = introRendera(scen, introKamera([-15.6, 1.05, 14.35], [-15.6, 0.62, 11.6], 50, W / H), W, H, 3.2);
+    flytt.forEach(([o, p]) => o.position.copy(p)); dolda.forEach((o) => { o.visible = true; }); slangar.forEach((o) => { o.visible = true; });
   } else {
     // skjulet före och efter: två halvor sida vid sida
     const hemFor = {}; for (const [id, g] of Object.entries(HEM_DELAR)) hemFor[id] = g.visible;
-    const vaggFor = HEM_DELAR.vaggar?.children.map((c) => c.visible);
-    const kam = () => introKamera([SKJUL.x + 3.2, 3.3, SKJUL.z + 5.6], [SKJUL.x, 1.0, SKJUL.z], 52, (W / 2) / H);
+    const vaggFor = HEM_DELAR.vaggar?.children.map((c) => c.visible), plankTak = talt.userData.plankTak;
     const skyltar = [sangSkylt, sangSpoke].filter((o) => o?.visible); skyltar.forEach((o) => { o.visible = false; });
-    const fore = introRendera(scen, kam(), Math.round(W / 2), H, 5);
+    const kam = () => introKamera([SKJUL.x + 3.2, 2.6, SKJUL.z + 5.8], [SKJUL.x, 1.1, SKJUL.z], 52, (W / 2) / H);
+    // före: grått, trasigt, inget tak, skräp runt
+    for (const g of Object.values(HEM_DELAR)) g.visible = false; plankTak.visible = false; if (skjulLampa) skjulLampa.intensity = 0;
+    scen.background.set(0x9aa3ab); scen.fog.color.set(0x9aa3ab); sol.intensity = 0.9; sol.color.set(0xd8dde2);
+    const skrapFore = tillfalliga.length; skrapRunt(28, SKJUL.x - 3.5, SKJUL.x + 4.5, SKJUL.z - 1, SKJUL.z + 4.5, (x, z) => Math.abs(x - SKJUL.x) < 2.0 && Math.abs(z - SKJUL.z) < 1.7);
+    const fore = introRendera(scen, kam(), Math.round(W / 2), H, 5, { gra: 0.75 });
+    tillfalliga.splice(skrapFore).forEach((o) => scen.remove(o));
+    // efter: plåttak, varmt ljus i fönstret, en lampa, krukor, en matta och en skymt av gamingskärmen – i skymningen
     for (const [id, g] of Object.entries(HEM_DELAR)) if (id !== 'fonster') g.visible = true;
-    HEM_DELAR.vaggar?.children.forEach((c) => { c.visible = true; });
-    // ett hem: krukor, en pall och en fågelholk framför skjulet
-    const hemma = [['kruka', 1.3, 2.0], ['kruka', -1.4, 2.1], ['pall', 2.1, 1.2], ['fagelholk', 2.4, -0.3], ['kruka', 2.1, 1.2, 0.475]].map(([t, dx, dz, y = 0]) => { const v = skapaVara(t); v.position.set(SKJUL.x + dx, y, SKJUL.z + dz); scen.add(v); return v; });
+    HEM_DELAR.vaggar?.children.forEach((c) => { c.visible = true; }); plankTak.visible = true;
+    satLjus(KVALL); sol.intensity = 0.8; scen.background.set(0xd98a5a); scen.fog.color.set(0xd98a5a); if (skjulLampa) skjulLampa.intensity = 12;
+    const f0 = new THREE.Vector3(SKJUL.x, 0, SKJUL.z + SKJUL.d / 2);
+    const fonster = tmp(new THREE.Mesh(new THREE.BoxGeometry(0.7, 0.55, 0.03), mat(0xffd27a, { emissive: 0xffb84a, emissiveIntensity: 1.6 }))); fonster.position.set(f0.x - 1.15, 1.45, f0.z + 0.03);
+    const karm = tmp(new THREE.Mesh(new THREE.BoxGeometry(0.78, 0.63, 0.02), mat(0xf2ede2))); karm.position.set(f0.x - 1.15, 1.45, f0.z + 0.015);
+    const sken = tmp(new THREE.PointLight(0xffb060, 5, 4)); sken.position.set(f0.x - 1.15, 1.4, f0.z + 0.8);
+    const matta = tmp(new THREE.Mesh(new THREE.BoxGeometry(1.4, 0.02, 0.9), mat(0xb23a2a))); matta.position.set(SKJUL.x, 0.05, SKJUL.z + 0.4);
+    const rand = tmp(new THREE.Mesh(new THREE.BoxGeometry(1.2, 0.025, 0.7), mat(0xe9b949))); rand.position.set(SKJUL.x, 0.055, SKJUL.z + 0.4);
+    const gb = tmp(skapaVara('gamingbord')); gb.position.set(SKJUL.x + 0.6, 0, SKJUL.z - 0.75); gb.rotation.y = 0;
+    const lp = tmp(skapaVara('lampskarm')); lp.position.set(SKJUL.x - 1.25, 0, SKJUL.z + SKJUL.d / 2 + 0.55);
+    const lpLjus = tmp(new THREE.PointLight(0xffc27a, 3, 3)); lpLjus.position.set(SKJUL.x - 1.25, 1.0, SKJUL.z + SKJUL.d / 2 + 0.6);
+    for (const [t, dx, dz, y = 0] of [['kruka', 1.3, 2.0], ['kruka', -0.55, 2.1], ['pall', 2.1, 1.2], ['fagelholk', 2.4, -0.3], ['kruka', 2.1, 1.2, 0.475]]) { const v = tmp(skapaVara(t)); v.position.set(SKJUL.x + dx, y, SKJUL.z + dz); }
     const efter = introRendera(scen, kam(), Math.round(W / 2), H, 5);
-    hemma.forEach((v) => scen.remove(v)); skyltar.forEach((o) => { o.visible = true; });
     for (const [id, g] of Object.entries(HEM_DELAR)) g.visible = hemFor[id];
-    HEM_DELAR.vaggar?.children.forEach((c, i) => { c.visible = vaggFor[i]; });
+    HEM_DELAR.vaggar?.children.forEach((c, i) => { c.visible = vaggFor[i]; }); skyltar.forEach((o) => { o.visible = true; });
     A = document.createElement('canvas'); A.width = W; A.height = H; const c = A.getContext('2d');
     c.drawImage(fore, 0, 0); c.drawImage(efter, W / 2, 0);
     c.fillStyle = '#191c24'; c.fillRect(W / 2 - 3, 0, 6, H);
     c.fillStyle = '#4cc9f0'; c.strokeStyle = '#191c24'; c.lineWidth = 6; c.beginPath();
     const y = H * 0.5; c.moveTo(W / 2 - 52, y - 16); c.lineTo(W / 2 + 10, y - 16); c.lineTo(W / 2 + 10, y - 40); c.lineTo(W / 2 + 58, y); c.lineTo(W / 2 + 10, y + 40); c.lineTo(W / 2 + 10, y + 16); c.lineTo(W / 2 - 52, y + 16); c.closePath(); c.stroke(); c.fill();
   }
-  for (const t of tillfalliga) scen.remove(t);
-  scen.background.copy(forr.bg); scen.fog.color.copy(forr.fog); sol.color.copy(forr.sf); sol.intensity = forr.si; malPil.visible = pil; planMesh.visible = NY_GARD;
+  for (const t of tillfalliga) { if (t.aterstall) t.aterstall(); else scen.remove(t); }
+  scen.background.copy(forr.bg); scen.fog.color.copy(forr.fog); sol.color.copy(forr.sf); sol.intensity = forr.si; if (skjulLampa) skjulLampa.intensity = forr.lampa; malPil.visible = pil; planMesh.visible = NY_GARD;
   return A;
 }
 // ---------- Punkt AM (förslag): gårdsplanen ovanifrån – streckade rutor med text, för granskning ----------

diff --git a/spel/printa-hem/index.html b/spel/printa-hem/index.html
@@ -9,27 +9,27 @@
 {
  "imports": {
   "three": "https://cdn.jsdelivr.net/npm/three@0.170.0/build/three.module.js",
-  "./balans.js": "./balans.js?v=46ec35f64a",
-  "./brand.js": "./brand.js?v=46ec35f64a",
-  "./gardplan.js": "./gardplan.js?v=46ec35f64a",
-  "./hud.js": "./hud.js?v=46ec35f64a",
-  "./intro-bilder.js": "./intro-bilder.js?v=46ec35f64a",
-  "./miljo.js": "./miljo.js?v=46ec35f64a",
-  "./spel.js": "./spel.js?v=46ec35f64a",
-  "./ui-kit.js": "./ui-kit.js?v=46ec35f64a",
-  "../../delat/fp/index.js": "../../delat/fp/index.js?v=46ec35f64a",
-  "../../delat/fp/interaktion.js": "../../delat/fp/interaktion.js?v=46ec35f64a",
-  "../../delat/fp/magi.js": "../../delat/fp/magi.js?v=46ec35f64a",
-  "../../delat/fp/smuts.js": "../../delat/fp/smuts.js?v=46ec35f64a",
-  "../../delat/fp/spelare.js": "../../delat/fp/spelare.js?v=46ec35f64a",
-  "../../delat/fp/system.js": "../../delat/fp/system.js?v=46ec35f64a",
-  "../../delat/fp/ui.js": "../../delat/fp/ui.js?v=46ec35f64a",
-  "../../delat/motor.js": "../../delat/motor.js?v=46ec35f64a"
+  "./balans.js": "./balans.js?v=868305ebf1",
+  "./brand.js": "./brand.js?v=868305ebf1",
+  "./gardplan.js": "./gardplan.js?v=868305ebf1",
+  "./hud.js": "./hud.js?v=868305ebf1",
+  "./intro-bilder.js": "./intro-bilder.js?v=868305ebf1",
+  "./miljo.js": "./miljo.js?v=868305ebf1",
+  "./spel.js": "./spel.js?v=868305ebf1",
+  "./ui-kit.js": "./ui-kit.js?v=868305ebf1",
+  "../../delat/fp/index.js": "../../delat/fp/index.js?v=868305ebf1",
+  "../../delat/fp/interaktion.js": "../../delat/fp/interaktion.js?v=868305ebf1",
+  "../../delat/fp/magi.js": "../../delat/fp/magi.js?v=868305ebf1",
+  "../../delat/fp/smuts.js": "../../delat/fp/smuts.js?v=868305ebf1",
+  "../../delat/fp/spelare.js": "../../delat/fp/spelare.js?v=868305ebf1",
+  "../../delat/fp/system.js": "../../delat/fp/system.js?v=868305ebf1",
+  "../../delat/fp/ui.js": "../../delat/fp/ui.js?v=868305ebf1",
+  "../../delat/motor.js": "../../delat/motor.js?v=868305ebf1"
  }
 }
   </script>
 </head>
 <body>
-  <script type="module" src="spel.js?v=46ec35f64a"></script>
+  <script type="module" src="spel.js?v=868305ebf1"></script>
 </body>
 </html>
